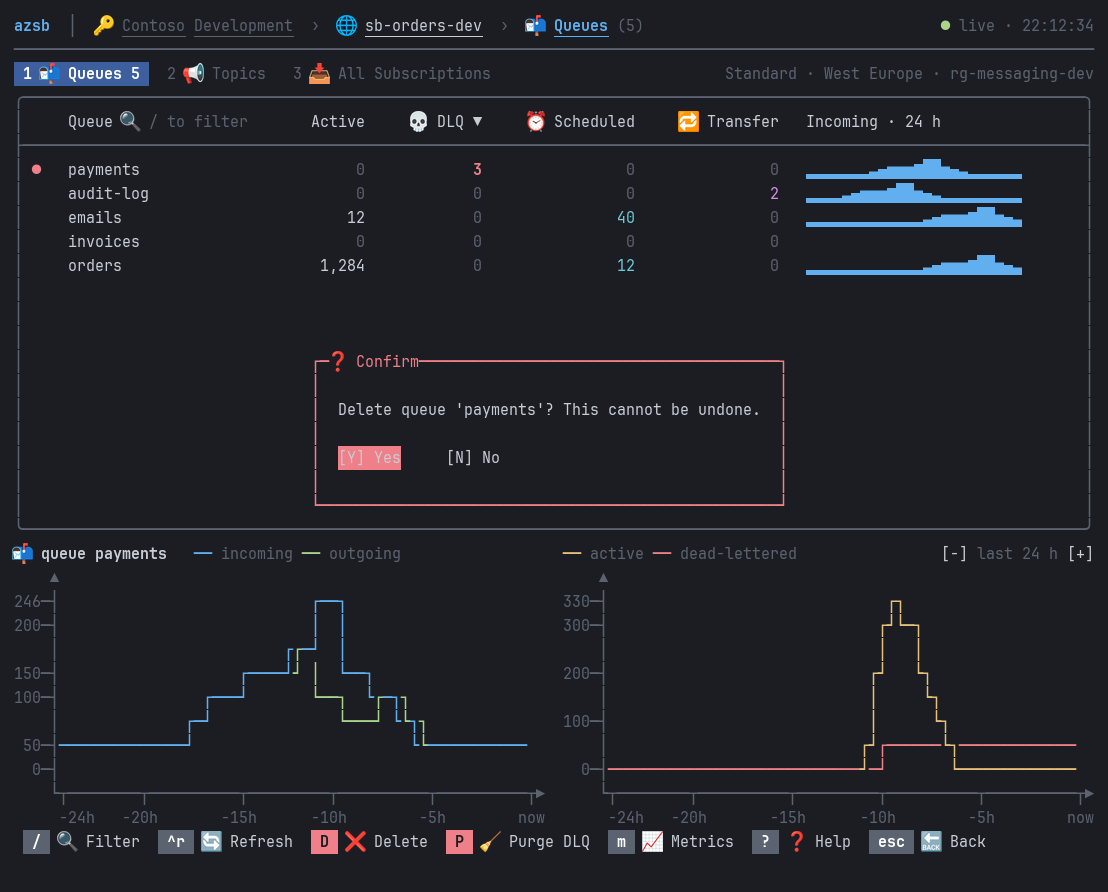
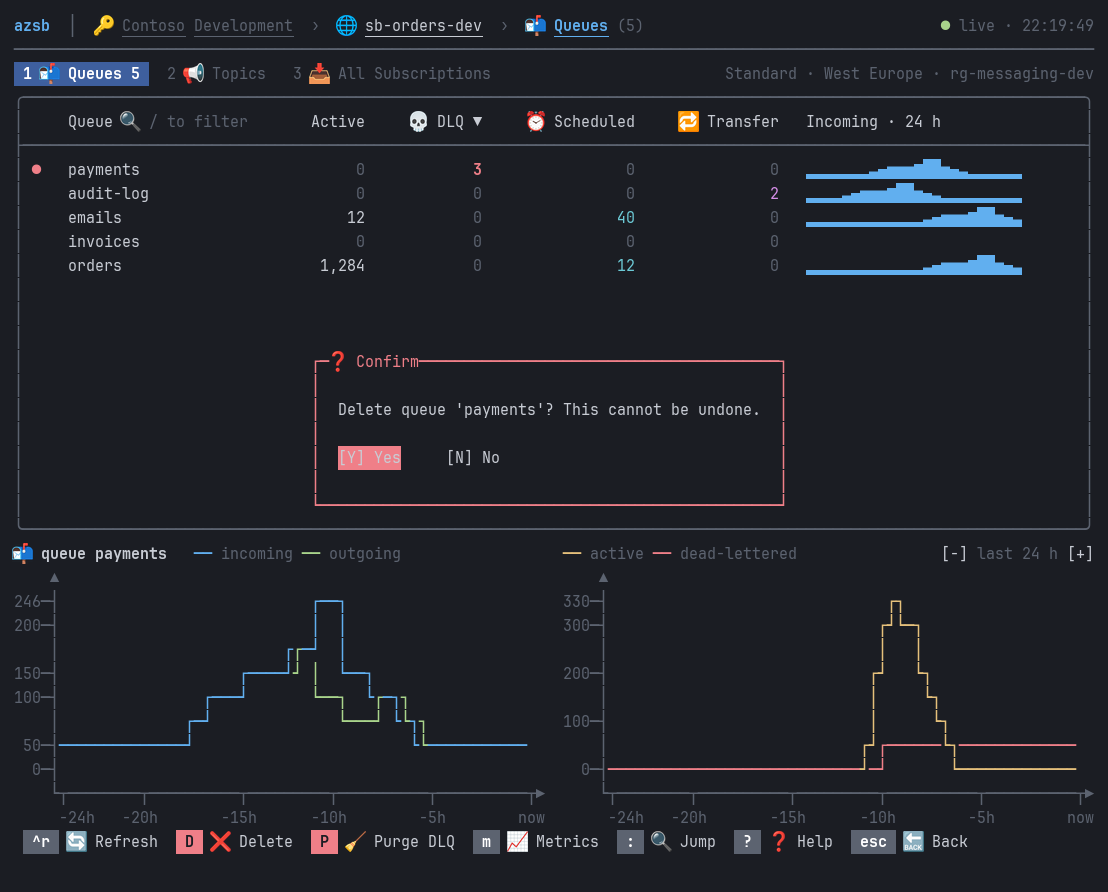
Jump palette on : (#152)
Part of #132. JumpDialog opens on : from the section lists and the
message browser: type part of a name, ↑↓ and Enter open the queue's or
subscription's messages or the topic's subscriptions. JumpIndex.Search
ranks prefix over contains over letters in order, dead letters first.
Targets are the namespace's queues, topics and subscriptions from the
cached listings, listed live only when not cached. The input is not
bound to a Value, so a lagging render can't overwrite what is typed.

The footer drops / (the column header shows it) to keep : Jump on one
line at 120 columns.

Claude-Session: https://claude.ai/code/session_014zNgM4zMsC37xcnYsSUVjN

Changed region(s): [[0.3069, 0.9081, 0.8899, 0.9686], [0.0307, 0.9081, 0.2455, 0.9686]]

diff --git a/tests/ServiceBusConsole.Tests/JumpTests.cs b/tests/ServiceBusConsole.Tests/JumpTests.cs
@@ -1,0 +1,56 @@
+namespace ServiceBusConsole.Tests;
+
+[NotInParallel(nameof(JumpTests))]
+public sealed class JumpTests
+{
+    private static readonly JumpTarget[] Targets =
+    [
+        new JumpTarget.Queue(new QueueInfo { Name = "orders" }),
+        new JumpTarget.Queue(new QueueInfo { Name = "payments", DeadLetterMessageCount = 3 }),
+        new JumpTarget.Queue(new QueueInfo { Name = "payments-retry" }),
+        new JumpTarget.Topic(new TopicInfo { Name = "order-events" }),
+        new JumpTarget.Subscription(new SubscriptionInfo { TopicName = "order-events", Name = "payments" }),
+    ];
+
+    private static string[] Names(string query) => [.. JumpIndex.Search(query, Targets).Select(t => t.Name)];
+
+    [Test]
+    public void Search_PrefixThenContainsThenLettersInOrder_DeadLettersFirstWithinEach()
+    {
+        Names("pay").ShouldBe(["payments", "payments-retry", "order-events/payments"]);
+        Names("order").ShouldBe(["order-events", "order-events/payments", "orders"]);
+        Names("pmtr").ShouldBe(["payments-retry"]);
+        Names("zzz").ShouldBeEmpty();
+    }
+
+    [Test]
+    public void Search_EmptyQuery_ListsDeadLettersFirst()
+    {
+        Names("")[0].ShouldBe("payments");
+        JumpIndex.Search("", Targets, max: 2).Count.ShouldBe(2);
+    }
+
+    [Test]
+    public async Task Colon_FindsASubscription_AndOpensItsBrowser()
+    {
+        var app = new AppHarness();
+        app.Queues.Queues.Add(new QueueInfo { Name = "orders" });
+        app.Topics.Topics.Add(new TopicInfo { Name = "order-events", SubscriptionCount = 1 });
+        app.Topics.Subscriptions.Add(new SubscriptionInfo { TopicName = "order-events", Name = "billing", DeadLetterMessageCount = 2 });
+        await using var terminal = await app.OpenQueuesAsync();
+        await terminal.WaitForTextAsync("Queues (1)", AppHarness.Timeout, Ct);
+        await AppHarness.WaitForTableFocusAsync(terminal);
+        var table = terminal.FocusKey;
+
+        await terminal.SendKeyAsync(ConsoleKey.Oem1, ':', ConsoleModifiers.Shift, Ct);
+        await terminal.WaitForTextAsync("🔍 Jump to", AppHarness.Timeout, Ct);
+        await AppHarness.WaitForFocusAsync(terminal, "100", table);
+        await terminal.TypeAsync("bill", Ct);
+        var frame = await terminal.WaitForTextAsync("📥 order-events › billing", AppHarness.Timeout, Ct);
+        frame.ContainsText("💀 2").ShouldBeTrue(frame.ScreenText);
+        frame.ContainsText("📬 orders").ShouldBeFalse(frame.ScreenText);
+        await terminal.SendKeyAsync(ConsoleKey.Enter, '\r', cancellationToken: Ct);
+
+        await terminal.WaitUntilAsync(f => f.GetLine(0).Contains("📥 billing"), AppHarness.Timeout, cancellationToken: Ct);
+    }
+}

diff --git a/src/ServiceBusConsole/UI/JumpTarget.cs b/src/ServiceBusConsole/UI/JumpTarget.cs
@@ -1,0 +1,32 @@
+namespace ServiceBusConsole.UI;
+
+/// <summary>Something the jump dialog (<c>:</c>) can open in the current namespace.</summary>
+public abstract record JumpTarget
+{
+    public sealed record Queue(QueueInfo Info) : JumpTarget
+    {
+        public override T Match<T>(Func<Queue, T> queue, Func<Topic, T> topic, Func<Subscription, T> subscription) => queue(this);
+    }
+
+    public sealed record Topic(TopicInfo Info) : JumpTarget
+    {
+        public override T Match<T>(Func<Queue, T> queue, Func<Topic, T> topic, Func<Subscription, T> subscription) => topic(this);
+    }
+
+    public sealed record Subscription(SubscriptionInfo Info) : JumpTarget
+    {
+        public override T Match<T>(Func<Queue, T> queue, Func<Topic, T> topic, Func<Subscription, T> subscription) => subscription(this);
+    }
+
+    /// <summary>Exhaustive: one function per kind of target.</summary>
+    public abstract T Match<T>(Func<Queue, T> queue, Func<Topic, T> topic, Func<Subscription, T> subscription);
+
+    /// <summary>What a query matches: the name, "topic/subscription" for a subscription.</summary>
+    public string Name => Match(q => q.Info.Name, t => t.Info.Name, s => $"{s.Info.TopicName}/{s.Info.Name}");
+
+    public string Label => Match(q => $"{Icons.Queue} {q.Info.Name}", t => $"{Icons.Topic} {t.Info.Name}", s => $"{Icons.Subscription} {s.Info.TopicName} › {s.Info.Name}");
+
+    public string Kind => Match(_ => "queue", _ => "topic", _ => "subscription");
+
+    public long DeadLetters => Match(q => q.Info.DeadLetterMessageCount, _ => 0, s => s.Info.DeadLetterMessageCount);
+}

diff --git a/src/ServiceBusConsole/UI/JumpIndex.cs b/src/ServiceBusConsole/UI/JumpIndex.cs
@@ -1,0 +1,40 @@
+namespace ServiceBusConsole.UI;
+
+/// <summary>
+/// Ranks jump targets for a query: names starting with it first, then containing it, then holding its letters in order
+/// ("pmt" finds "payments"); within each, dead letters first, then by name. An empty query lists dead letters first.
+/// </summary>
+public static class JumpIndex
+{
+    public static IReadOnlyList<JumpTarget> Search(string? query, IEnumerable<JumpTarget> targets, int max = 12)
+    {
+        var q = query?.Trim() ?? "";
+        return [.. targets
+            .Select(t => (Target: t, Rank: Rank(t.Name, q)))
+            .Where(r => r.Rank is not null)
+            .OrderBy(r => r.Rank)
+            .ThenByDescending(r => r.Target.DeadLetters)
+            .ThenBy(r => r.Target.Name, StringComparer.OrdinalIgnoreCase)
+            .Take(max)
+            .Select(r => r.Target)];
+    }
+
+    /// <summary>0 prefix, 1 contains, 2 letters in order, null no match; any name matches an empty query.</summary>
+    public static int? Rank(string name, string query) => query.Length == 0 ? 0
+        : name.StartsWith(query, StringComparison.OrdinalIgnoreCase) ? 0
+        : name.Contains(query, StringComparison.OrdinalIgnoreCase) ? 1
+        : InOrder(name, query) ? 2
+        : null;
+
+    private static bool InOrder(string name, string query)
+    {
+        var at = 0;
+        foreach (var c in query)
+        {
+            at = name.IndexOf(c.ToString(), at, StringComparison.OrdinalIgnoreCase);
+            if (at < 0) return false;
+            at++;
+        }
+        return true;
+    }
+}

diff --git a/tests/ServiceBusConsole.Tests/Screenshots.cs b/tests/ServiceBusConsole.Tests/Screenshots.cs
@@ -51,6 +51,16 @@ public sealed class Screenshots
         await terminal.WaitUntilAsync(f => !f.ContainsText("Go to"), AppHarness.Timeout, cancellationToken: Ct);
 
         await AppHarness.WaitForTableFocusAsync(terminal);
+        var queuesTable = terminal.FocusKey;
+        await terminal.SendKeyAsync(ConsoleKey.Oem1, ':', ConsoleModifiers.Shift, Ct);
+        await AppHarness.WaitForFocusAsync(terminal, "100", queuesTable);
+        await terminal.TypeAsync("pay", Ct);
+        await terminal.WaitForTextAsync("📬 payments", AppHarness.Timeout, Ct);
+        await Save(terminal, dir, "jump");
+        await Key(terminal, ConsoleKey.Escape, '\u001b');
+        await terminal.WaitUntilAsync(f => !f.ContainsText("Jump to"), AppHarness.Timeout, cancellationToken: Ct);
+
+        await AppHarness.WaitForTableFocusAsync(terminal);
         await Key(terminal, ConsoleKey.F9);
         await terminal.WaitForTextAsync("Delete queue", AppHarness.Timeout, Ct);
         await Save(terminal, dir, "confirm-delete");

diff --git a/tests/ServiceBusConsole.Tests/QueueListPageTests.cs b/tests/ServiceBusConsole.Tests/QueueListPageTests.cs
@@ -174,7 +174,7 @@ public sealed class QueueListPageTests
     {
         await using var terminal = await WithQueues().OpenAzureAsync(ConsoleKey.F1, height: 30);
         await terminal.WaitForTextAsync("Queues (3)", AppHarness.Timeout, Ct);
-        for (var i = 0; i < 10 && AppHarness.FocusedAttribute(terminal, "data-focus-order") != "5"; i++) // the Delete button: /, ^r, D
+        for (var i = 0; i < 10 && AppHarness.FocusedAttribute(terminal, "data-focus-order") != "4"; i++) // the Delete button: ^r, D
         {
             var previous = terminal.FocusKey;
             await terminal.SendKeyAsync(ConsoleKey.Tab, '\t', cancellationToken: Ct);

diff --git a/CLAUDE.md b/CLAUDE.md
@@ -111,7 +111,7 @@ This is a .NET 10 terminal UI app that browses Azure Service Bus namespaces, que
 
 **Tables:** a page's main table is its bordered box: `Border="TableBorder.Rounded" data-column-separators="false"` (a fork hook) draws the outer border and the header rule, no lines between columns. List pages end their rows with `<FillerRows>` so the box keeps a full page's height; the message browser doesn't, its preview takes the spare lines. A `<DeadLetterMark>` gutter marks rows with dead letters.
 
-**Keys:** a page lists its keys once as `KeyBinding`s (`Keys` property); `KeyHints` renders the footer from them, `HelpDialog` (`?`) lists them all and `KeyBinding.Dispatch` runs them from `HandleKeyDown`, after `AsyncCommand.HandleKey` (y/n) and the filter. Letters are commands, Shift for anything that deletes or moves messages (`D`, `P`, `R`, `X`), `^r` refresh; each F-key of earlier versions stays as an `Aliases` entry. Lists filter on `/` (`ListFilter`: typing edits, Enter keeps, Escape clears; `NavigableTBody.TakeKey` lets Enter end the edit); only the header dropdown filters as you type. `KeyButton` doesn't forward Space or Enter to the page: they click it.
+**Keys:** a page lists its keys once as `KeyBinding`s (`Keys` property); `KeyHints` renders the footer from them, `HelpDialog` (`?`) lists them all and `KeyBinding.Dispatch` runs them from `HandleKeyDown`, after `AsyncCommand.HandleKey` (y/n) and the filter. Letters are commands, Shift for anything that deletes or moves messages (`D`, `P`, `R`, `X`), `^r` refresh; each F-key of earlier versions stays as an `Aliases` entry. `:` opens `JumpDialog` on the section lists and the browser: `JumpIndex.Search` (pure, prefix > contains > letters in order, dead letters first) over the namespace's queues, topics and subscriptions, from the cached listings or live when not cached. Lists filter on `/` (`ListFilter`: typing edits, Enter keeps, Escape clears; `NavigableTBody.TakeKey` lets Enter end the edit); only the header dropdown filters as you type. `KeyButton` doesn't forward Space or Enter to the page: they click it.
 
 **Focus:** request focus once with `FocusManager.FocusAsync`; it keeps the request until the target renders. A retry loop can replace a later request (e.g. a dialog's OK) with one for an element that is gone.
 
